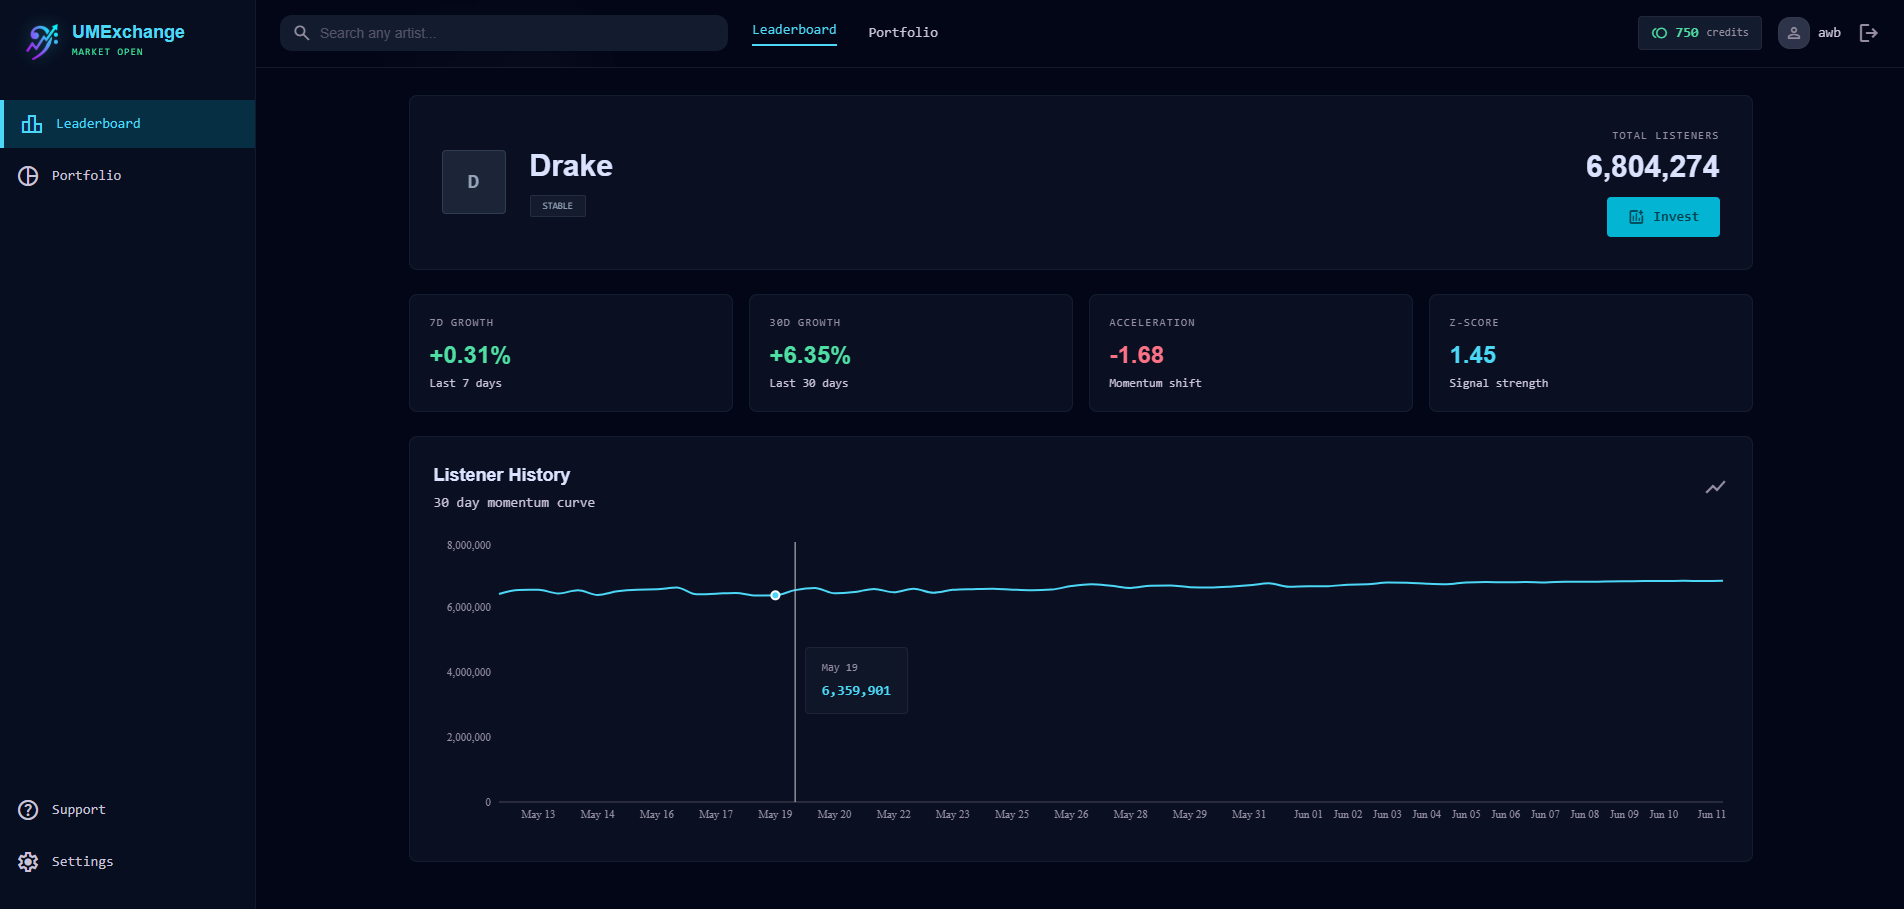
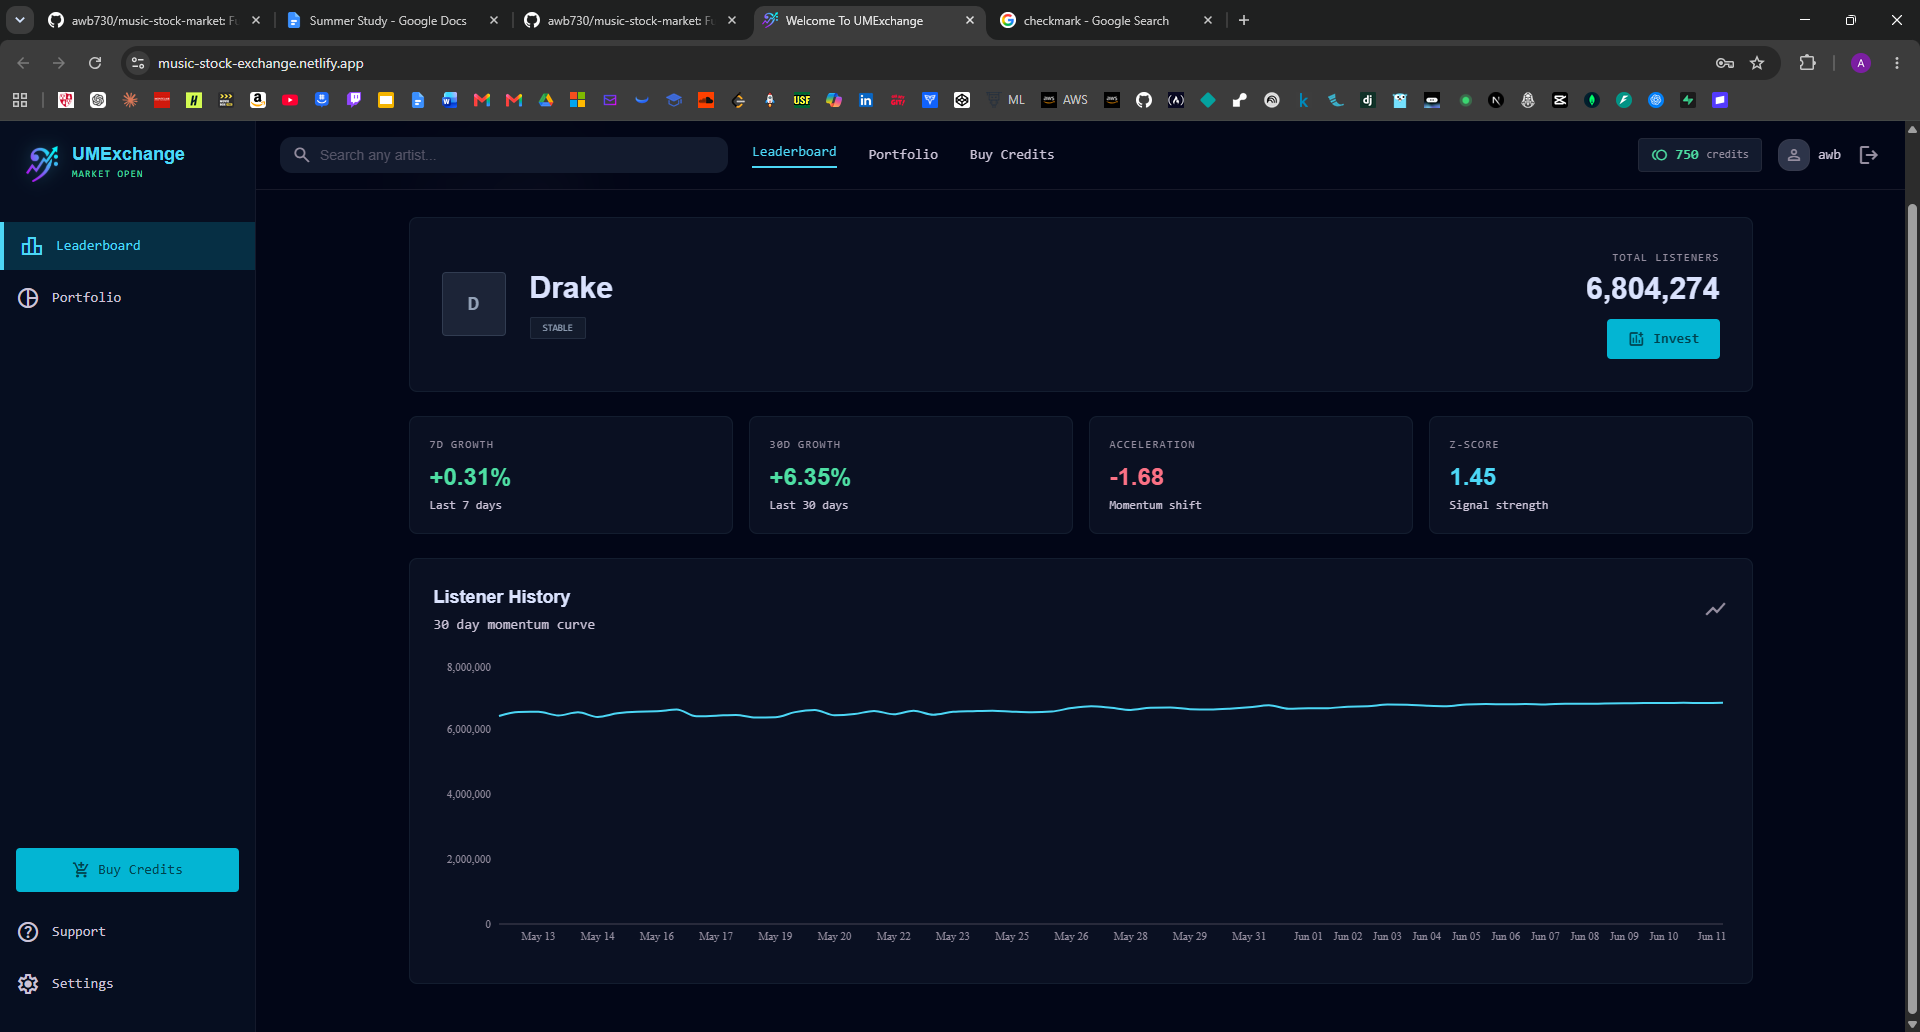
Update README.md

diff --git a/frontend/src/pages/Auth.jsx b/frontend/src/pages/Auth.jsx
@@ -70,7 +70,7 @@ function HeroSection({ onSignIn, onRegister }) {
           </button>
           <button
             onClick={onSignIn}
-            className="flex-1 bg-surface-container-low text-on-surface border border-outline-variant/30 font-mono font-bold py-3.5 px-8 rounded-lg hover:border-secondary/40 hover:text-secondary transition-all text-sm"
+            className="flex-1 bg-surface-container-low text-on-surface border border-outline-variant/30 font-mono font-bold py-3.5 px-8 rounded-lg hover:border-secondary/40 hover:text-secondary transition-all text-md"
           >
             Sign In
           </button>

diff --git a/README.md b/README.md
@@ -2,9 +2,11 @@
 
 A full-stack data engineering platform that treats underground rap artists like financial assets. Live streaming data is pulled into a quant-style pipeline that computes momentum indicators, classifies artists into market signals, and lets users open simulated LONG/SHORT positions on whether an artist's listener base will rise or fall.
 
+![Home Page Screenshot](docs/screenshots/home-page.png)
 ![Leaderboard Screenshot](docs/screenshots/leaderboard.png)
 ![Artist Detail Screenshot](docs/screenshots/artist-detail.png)
 ![Portfolio Screenshot](docs/screenshots/portfolio.png)
+![Purchase Credits Screenshot](docs/screenshots/credits.png)
 
 
 **Live demo:** [music-stock-exchange.netlify.app](https://music-stock-exchange.netlify.app)
@@ -115,7 +117,7 @@ positions          — id, user_id, artist_id, direction, credits_wagered,
 
 ## Roadmap
 
-- [ ] Stripe integration for purchasing credit bundles
+- [✓] Stripe integration for purchasing credit bundles
 - [ ] Backtesting framework to validate signal accuracy against historical outcomes
 - [ ] Migrate scheduled ingestion to a cloud-native scheduler (e.g. Render cron jobs)
 - [ ] Admin dashboard for managing tracked artists